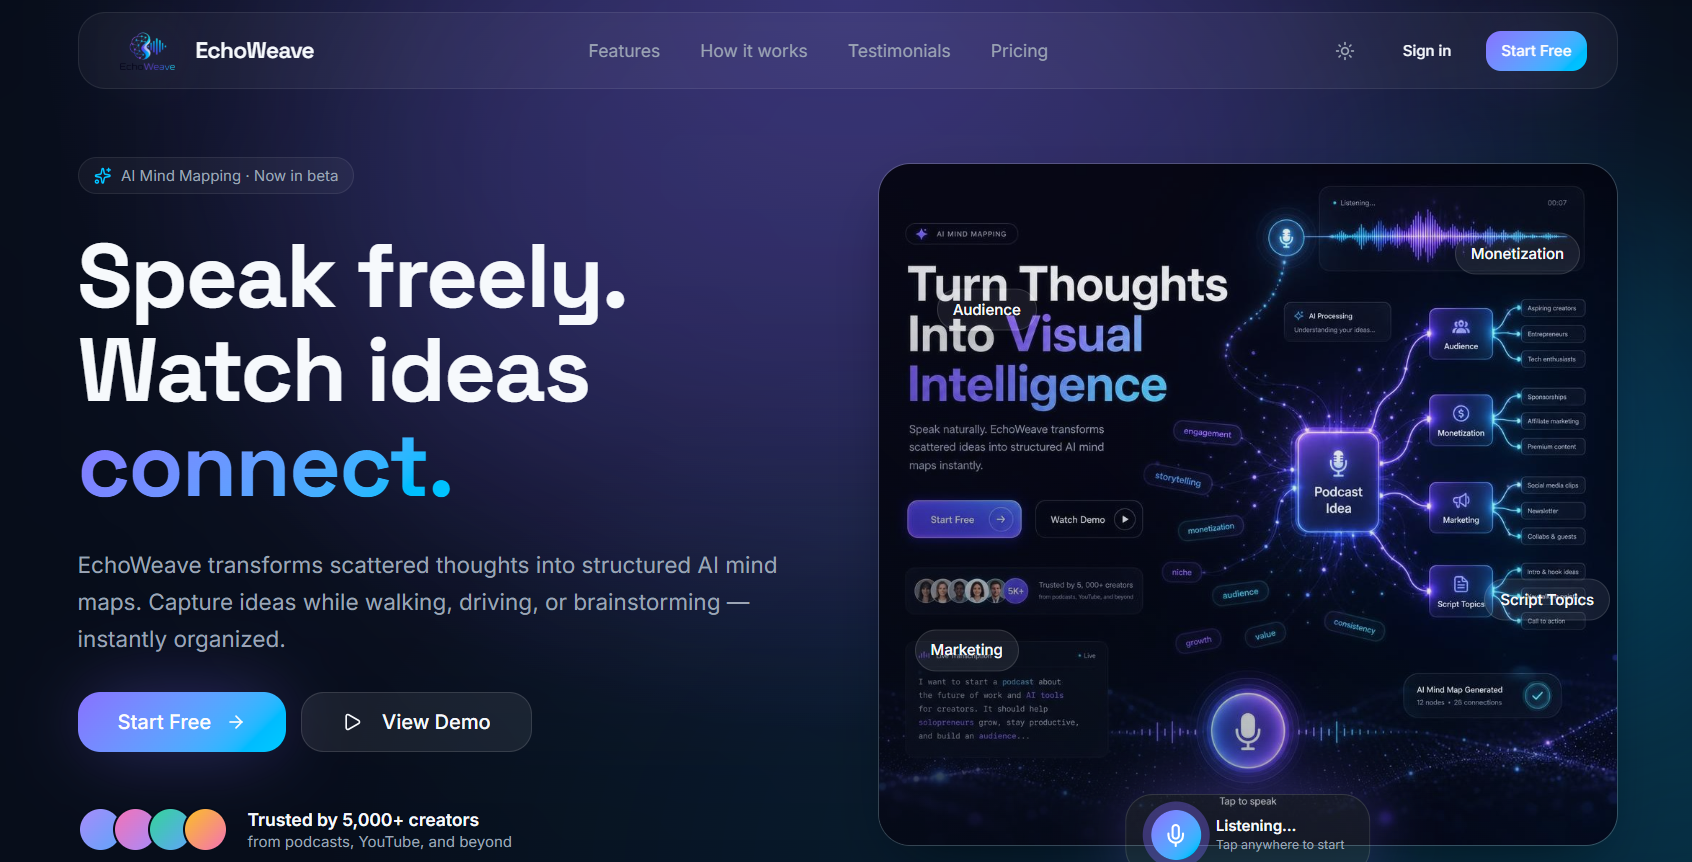
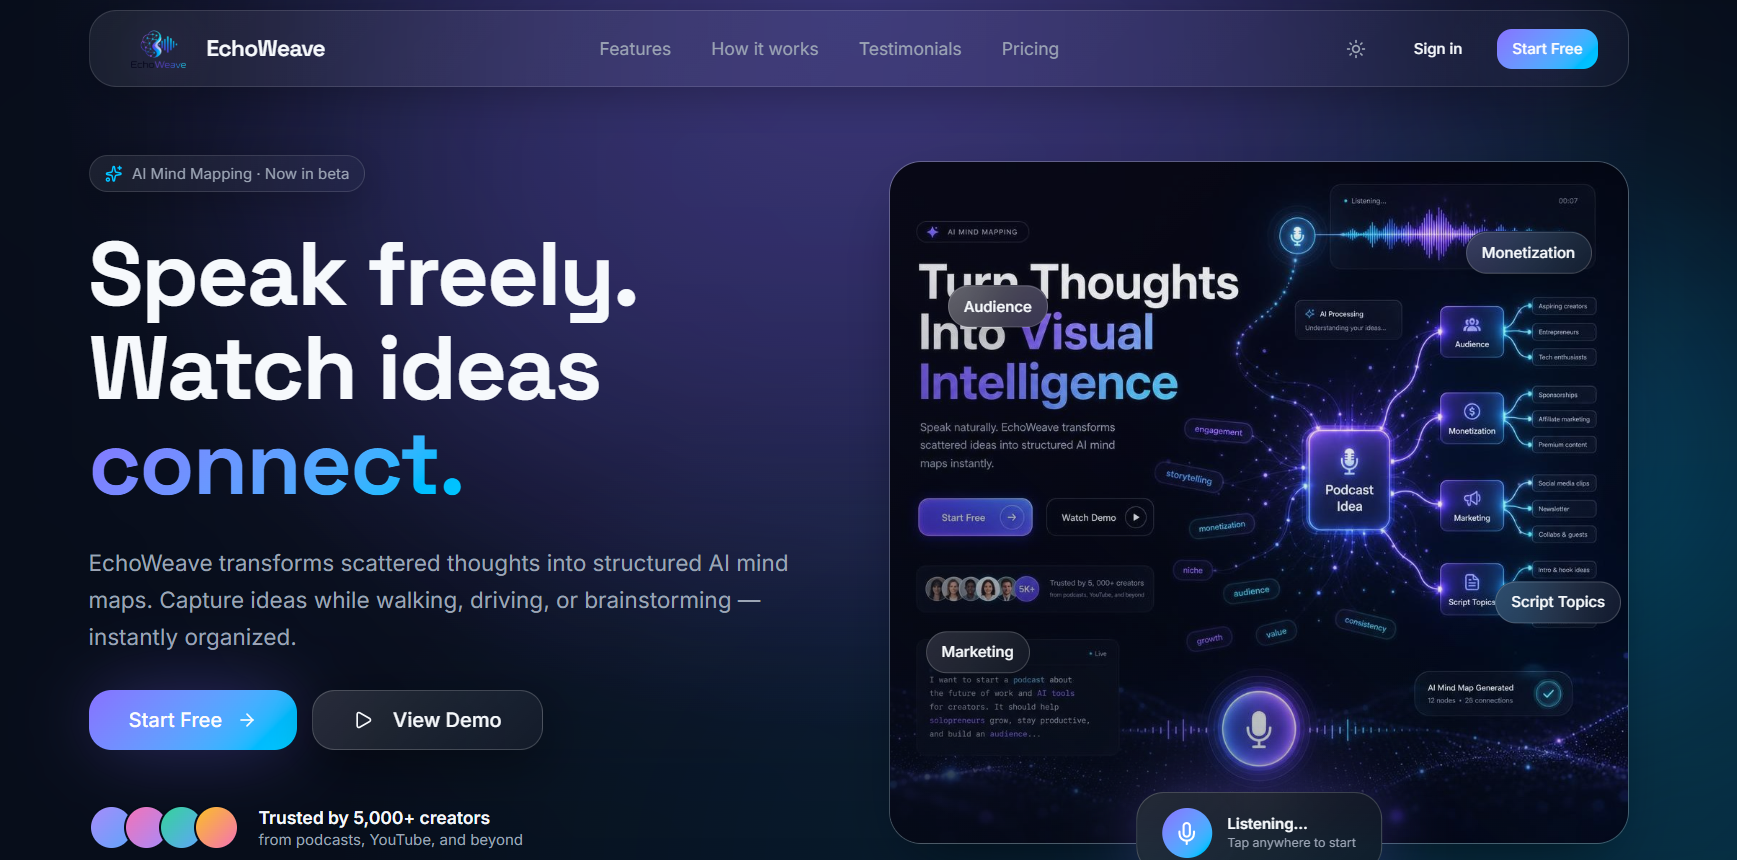
glassmorphism

diff --git a/README.md b/README.md
@@ -1,14 +1,8 @@
-You are 100% right. I completely missed that! Since you are using a dedicated `/api` folder for your backend routes, standard Vite won't know how to run those Vercel serverless functions on your local machine. We have to use the Vercel CLI for local development so everything boots up correctly.
-
-I have updated the **Getting Started** section to use the correct `vercel dev` commands, and I've placed huge, impossible-to-miss placeholders right at the top of the README for your Landing Page and Dashboard images!
-
-Here is your final, technically accurate `README.md`:
-
----
-
 # 🌌 EchoWeave
 
 **EchoWeave** is an intelligent, full-stack web application that transforms unstructured voice notes into structured, interactive mind maps. By leveraging AI, it analyzes thought patterns and automatically generates visual workspaces, helping users brainstorm, organize, and export their ideas with a pixel-perfect dark-theme aesthetic.
+
+<img width="1737" height="860" alt="cover" src="https://github.com/user-attachments/assets/ac8f060b-192d-40b0-9666-5dbd8ba63cf3" />
 
 ## ✨ Key Features
 